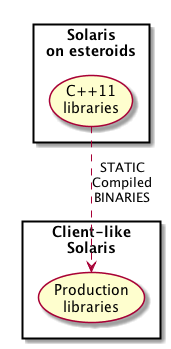
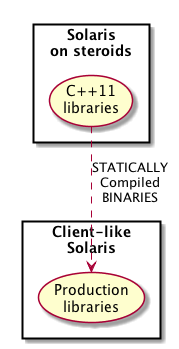
Typo on image

diff --git a/README.md b/README.md
@@ -46,13 +46,13 @@ In the very beginning, the focus will be on **Linux** platforms for **gcc** and 
 <!--
 @startuml fake-cross-compilation.png
 top to bottom direction
-rectangle "Solaris\non esteroids"  {
+rectangle "Solaris\non steroids"  {
 (C++11\nlibraries) as C11L 
 }
 rectangle "Client-like\nSolaris" {
 (Production\nlibraries) as PL
 }
-C11L .> PL : STATIC\nCompiled\nBINARIES
+C11L .> PL : STATICALLY\nCompiled\nBINARIES
 @enduml
 -->
 
